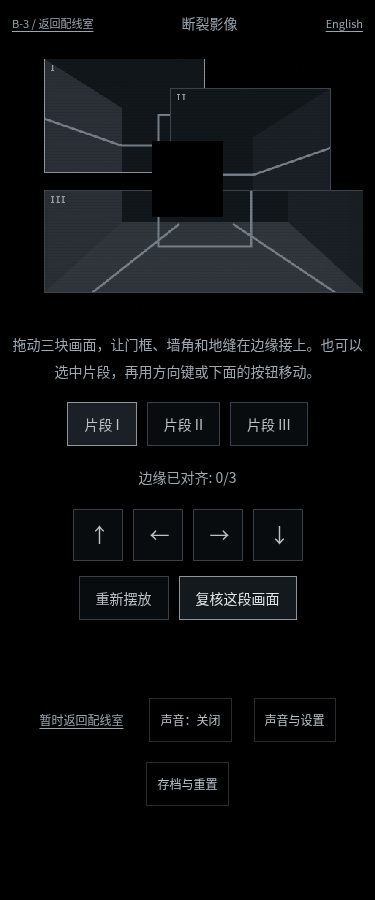
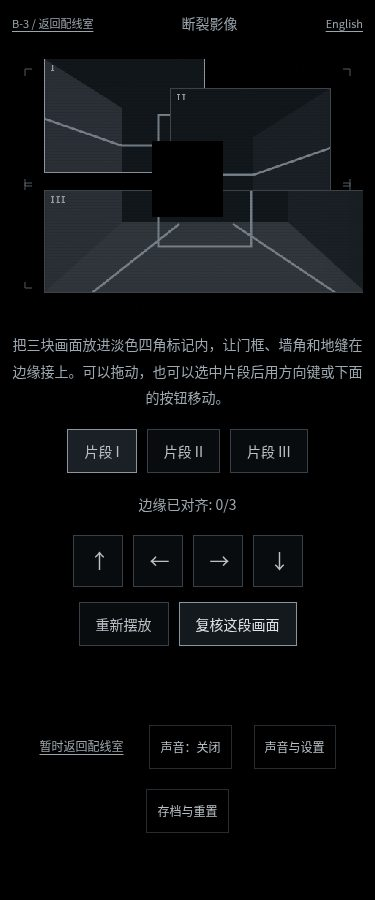
fix: show registration marks for the movable picture fragments

diff --git a/case-void.js b/case-void.js
@@ -33,7 +33,7 @@ globalThis.StillwaterVoid = {
       const title=corridor?t(...V.scenes[v.step].title):fragments?t('断裂影像','Fragmented picture'):terminal?t('分类终端','Classification terminal'):t('未归档画面','Unlisted picture');
       let controls='';
       if(corridor)controls=`<p class="void-instruction">${t('点画面左侧回看入口，点两扇门照亮门框。下面的按钮也能查看。','Touch the left edge to look back, or either door to illuminate its frame. The buttons below offer the same views.')}</p><div class="void-observe">${button('observe',t('回看入口门框','Look at the frame behind you'),'data-target="reference"')}${button('observe',t('照一下左侧门','Illuminate the left door'),'data-target="left"')}${button('observe',t('照一下右侧门','Illuminate the right door'),'data-target="right"')}${v.shadow?button('observe',t('查看走廊尽头','Look down the corridor'),'data-target="shadow"'):''}</div><p class="void-observation" role="status">${feedbackText(v)}</p><div class="void-directions">${button('walk',t('穿过左侧门','Go through the left door'),'data-direction="left"')}${button('walk',t('穿过右侧门','Go through the right door'),'data-direction="right"')}</div>`;
-      else if(fragments)controls=`<p class="void-instruction">${t('拖动三块画面，让门框、墙角和地缝在边缘接上。也可以选中片段，再用方向键或下面的按钮移动。','Drag the three fragments until the frame, corner and floor seams meet at their edges. You can also select a fragment and use the arrow keys or buttons.')}</p><div class="void-fragment-tabs" role="group" aria-label="${t('选择影像片段','Select a fragment')}">${roman.map((label,id)=>button('select',t('片段 ','Fragment ')+label,`data-id="${id}" aria-pressed="${id===v.selected}" ${v.reviewed?'disabled':''}`)).join('')}</div><p class="void-alignment" role="status">${t('边缘已对齐','Edges aligned')}: ${V.aligned(v).length}/3</p>${v.reviewed?`<p class="void-missing-source">${t('中央黑区没有对应机位。它不是丢失的第四块画面。','No camera covers the black area. It is not a missing fourth fragment.')}</p>${button('terminal',t('查看黑区后面的终端','Look at the terminal beyond the gap'),'class="void-primary"')}`:`<div class="void-nudges">${[['0','-1','↑'],['-1','0','←'],['1','0','→'],['0','1','↓']].map(([dx,dy,label])=>button('move',label,`data-dx="${dx}" data-dy="${dy}" aria-label="${t('移动片段','Move fragment')} ${label}"`)).join('')}</div><div class="void-fragment-actions">${button('reset-fragments',t('重新摆放','Reset fragments'))}${button('review',t('复核这段画面','Review this picture'),'class="void-primary"')}</div>`}`;
+      else if(fragments)controls=`<p class="void-instruction">${t('把三块画面放进淡色四角标记内，让门框、墙角和地缝在边缘接上。可以拖动，也可以选中片段后用方向键或下面的按钮移动。','Use the faint corner marks to position the three fragments so the frame, corner and floor seams meet at their edges. Drag, or select a fragment and use the arrow keys or buttons.')}</p><div class="void-fragment-tabs" role="group" aria-label="${t('选择影像片段','Select a fragment')}">${roman.map((label,id)=>button('select',t('片段 ','Fragment ')+label,`data-id="${id}" aria-pressed="${id===v.selected}" ${v.reviewed?'disabled':''}`)).join('')}</div><p class="void-alignment" role="status">${t('边缘已对齐','Edges aligned')}: ${V.aligned(v).length}/3</p>${v.reviewed?`<p class="void-missing-source">${t('中央黑区没有对应机位。它不是丢失的第四块画面。','No camera covers the black area. It is not a missing fourth fragment.')}</p>${button('terminal',t('查看黑区后面的终端','Look at the terminal beyond the gap'),'class="void-primary"')}`:`<div class="void-nudges">${[['0','-1','↑'],['-1','0','←'],['1','0','→'],['0','1','↓']].map(([dx,dy,label])=>button('move',label,`data-dx="${dx}" data-dy="${dy}" aria-label="${t('移动片段','Move fragment')} ${label}"`)).join('')}</div><div class="void-fragment-actions">${button('reset-fragments',t('重新摆放','Reset fragments'))}${button('review',t('复核这段画面','Review this picture'),'class="void-primary"')}</div>`}`;
       else if(terminal) {
         const current=['ROOM','GUEST','EMPLOYEE'].includes(v.observation)?v.observation:v.attempts.at(-1);
         controls=`<div class="void-classification"><p class="void-system-id">CONTINUITY / UNKNOWN SOURCE</p><h2>${t('无法识别此处。请选择记录类别。','Location unrecognized. Select a record type.')}</h2><div class="void-types">${['ROOM','GUEST','EMPLOYEE'].map(type=>button('classify',type,`data-type="${type}" aria-pressed="${v.attempts.includes(type)}"`)).join('')}</div>${current?`<div class="void-conflict" role="status"><span>${current} / ${t('与原件不符','SOURCE CONFLICT')}</span><p>${esc(conflict(current))}</p></div>`:''}${v.attempts.length===3?button('classify','UNVERIFIED', 'data-type="UNVERIFIED" class="void-primary"'):''}</div>`;
@@ -81,6 +81,12 @@ globalThis.StillwaterVoid = {
       ctx.beginPath();ctx.moveTo(20,110);ctx.lineTo(126,147);ctx.lineTo(354,147);ctx.lineTo(460,110);ctx.moveTo(86,324);ctx.lineTo(205,230);ctx.moveTo(418,324);ctx.lineTo(278,230);ctx.stroke();
     }
     function fragments(ctx,v,positions=v.positions,selected=v.selected) {
+      // Fixed registration marks make the absolute picture position observable,
+      // even when all three moving fragments happen to share the same offset.
+      ctx.strokeStyle='#59636b';ctx.lineWidth=1;
+      for(const r of V.slots)for(const [cx,cy,sx,sy] of [[r.x-2,r.y-2,1,1],[r.x+r.w+2,r.y-2,-1,1],[r.x-2,r.y+r.h+2,1,-1],[r.x+r.w+2,r.y+r.h+2,-1,-1]]) {
+        ctx.beginPath();ctx.moveTo(cx+sx*9,cy);ctx.lineTo(cx,cy);ctx.lineTo(cx,cy+sy*9);ctx.stroke();
+      }
       for(let i=0;i<3;i++) {
         const r=V.slots[i],x=r.x+positions[i][0]*8,y=r.y+positions[i][1]*8;
         ctx.save();ctx.beginPath();ctx.rect(x,y,r.w,r.h);ctx.clip();ctx.translate(positions[i][0]*8,positions[i][1]*8);fragmentSource(ctx);ctx.restore();

diff --git a/index.html b/index.html
@@ -10,47 +10,47 @@
     />
     <title>Night Owl BBS · Work notices</title>
     <link rel="icon" href="assets/emblem.svg" type="image/svg+xml" />
-    <link rel="stylesheet" href="case-style.css?v=4.6.0" />
-    <link rel="stylesheet" href="design-tokens.css?v=4.6.0" />
-    <link rel="stylesheet" href="hotel-2010.css?v=4.6.0" />
-    <script src="site-media.js?v=4.6.0" defer></script>
-    <script src="case-data.js?v=4.6.0" defer></script>
-    <script src="case-void-model.js?v=4.6.0" defer></script>
-    <script src="case-night-model.js?v=4.6.0" defer></script>
-    <script src="case-state.js?v=4.6.0" defer></script>
-    <script src="case-pages.js?v=4.6.0" defer></script>
-    <script src="case-comfort.js?v=4.6.0" defer></script>
-    <script src="case-feedback.js?v=4.6.0" defer></script>
-    <link rel="stylesheet" href="forum-style.css?v=4.6.0" />
-    <script src="forum-data.js?v=4.6.0" defer></script>
-    <script src="forum.js?v=4.6.0" defer></script>
-    <script src="chat-data.js?v=4.6.0" defer></script>
-    <script src="chat-model.js?v=4.6.0" defer></script>
-    <script src="chat-photos.js?v=4.6.0" defer></script>
-    <script src="chat-view.js?v=4.6.0" defer></script>
-    <link rel="stylesheet" href="ad-style.css?v=4.6.0" />
-    <script src="ad-data.js?v=4.6.0" defer></script>
-    <script src="ad-system.js?v=4.6.0" defer></script>
-    <link rel="stylesheet" href="case-anomaly.css?v=4.6.0" />
-    <script src="case-night.js?v=4.6.0" defer></script>
-    <script src="case-audio.js?v=4.6.0" defer></script>
-    <script src="case-transition.js?v=4.6.0" defer></script>
-    <script src="case-space.js?v=4.6.0" defer></script>
-    <script src="case-events.js?v=4.6.0" defer></script>
-    <script src="case-welcome.js?v=4.6.0" defer></script>
-    <link rel="stylesheet" href="case-welcome.css?v=4.6.0" />
-    <script src="case-ending.js?v=4.6.0" defer></script>
-    <script src="case-void.js?v=4.6.0" defer></script>
-    <script src="case-app.js?v=4.6.0" defer></script>
-    <link rel="stylesheet" href="cctv-filter.css?v=4.6.0" />
-    <link rel="stylesheet" href="visual-v24.css?v=4.6.0" />
-    <link rel="stylesheet" href="case-wiring.css?v=4.6.0" />
-    <link rel="stylesheet" href="case-ending.css?v=4.6.0" />
-    <link rel="stylesheet" href="ad-popup.css?v=4.6.0" />
-    <link rel="stylesheet" href="chat-style.css?v=4.6.0" />
-    <link rel="stylesheet" href="case-void.css?v=4.6.0" />
-    <script src="retro-media.js?v=4.6.0" defer></script>
-    <script src="cctv-scenes.js?v=4.6.0" defer></script>
+    <link rel="stylesheet" href="case-style.css?v=4.6.1" />
+    <link rel="stylesheet" href="design-tokens.css?v=4.6.1" />
+    <link rel="stylesheet" href="hotel-2010.css?v=4.6.1" />
+    <script src="site-media.js?v=4.6.1" defer></script>
+    <script src="case-data.js?v=4.6.1" defer></script>
+    <script src="case-void-model.js?v=4.6.1" defer></script>
+    <script src="case-night-model.js?v=4.6.1" defer></script>
+    <script src="case-state.js?v=4.6.1" defer></script>
+    <script src="case-pages.js?v=4.6.1" defer></script>
+    <script src="case-comfort.js?v=4.6.1" defer></script>
+    <script src="case-feedback.js?v=4.6.1" defer></script>
+    <link rel="stylesheet" href="forum-style.css?v=4.6.1" />
+    <script src="forum-data.js?v=4.6.1" defer></script>
+    <script src="forum.js?v=4.6.1" defer></script>
+    <script src="chat-data.js?v=4.6.1" defer></script>
+    <script src="chat-model.js?v=4.6.1" defer></script>
+    <script src="chat-photos.js?v=4.6.1" defer></script>
+    <script src="chat-view.js?v=4.6.1" defer></script>
+    <link rel="stylesheet" href="ad-style.css?v=4.6.1" />
+    <script src="ad-data.js?v=4.6.1" defer></script>
+    <script src="ad-system.js?v=4.6.1" defer></script>
+    <link rel="stylesheet" href="case-anomaly.css?v=4.6.1" />
+    <script src="case-night.js?v=4.6.1" defer></script>
+    <script src="case-audio.js?v=4.6.1" defer></script>
+    <script src="case-transition.js?v=4.6.1" defer></script>
+    <script src="case-space.js?v=4.6.1" defer></script>
+    <script src="case-events.js?v=4.6.1" defer></script>
+    <script src="case-welcome.js?v=4.6.1" defer></script>
+    <link rel="stylesheet" href="case-welcome.css?v=4.6.1" />
+    <script src="case-ending.js?v=4.6.1" defer></script>
+    <script src="case-void.js?v=4.6.1" defer></script>
+    <script src="case-app.js?v=4.6.1" defer></script>
+    <link rel="stylesheet" href="cctv-filter.css?v=4.6.1" />
+    <link rel="stylesheet" href="visual-v24.css?v=4.6.1" />
+    <link rel="stylesheet" href="case-wiring.css?v=4.6.1" />
+    <link rel="stylesheet" href="case-ending.css?v=4.6.1" />
+    <link rel="stylesheet" href="ad-popup.css?v=4.6.1" />
+    <link rel="stylesheet" href="chat-style.css?v=4.6.1" />
+    <link rel="stylesheet" href="case-void.css?v=4.6.1" />
+    <script src="retro-media.js?v=4.6.1" defer></script>
+    <script src="cctv-scenes.js?v=4.6.1" defer></script>
   </head>
   <body>
     <a class="skip" href="#content">Skip to content</a>

diff --git a/index-zh.html b/index-zh.html
@@ -10,47 +10,47 @@
     />
     <title>夜猫论坛 · 工作信息</title>
     <link rel="icon" href="assets/emblem.svg" type="image/svg+xml" />
-    <link rel="stylesheet" href="case-style.css?v=4.6.0" />
-    <link rel="stylesheet" href="design-tokens.css?v=4.6.0" />
-    <link rel="stylesheet" href="hotel-2010.css?v=4.6.0" />
-    <script src="site-media.js?v=4.6.0" defer></script>
-    <script src="case-data.js?v=4.6.0" defer></script>
-    <script src="case-void-model.js?v=4.6.0" defer></script>
-    <script src="case-night-model.js?v=4.6.0" defer></script>
-    <script src="case-state.js?v=4.6.0" defer></script>
-    <script src="case-pages.js?v=4.6.0" defer></script>
-    <script src="case-comfort.js?v=4.6.0" defer></script>
-    <script src="case-feedback.js?v=4.6.0" defer></script>
-    <link rel="stylesheet" href="forum-style.css?v=4.6.0" />
-    <script src="forum-data.js?v=4.6.0" defer></script>
-    <script src="forum.js?v=4.6.0" defer></script>
-    <script src="chat-data.js?v=4.6.0" defer></script>
-    <script src="chat-model.js?v=4.6.0" defer></script>
-    <script src="chat-photos.js?v=4.6.0" defer></script>
-    <script src="chat-view.js?v=4.6.0" defer></script>
-    <link rel="stylesheet" href="ad-style.css?v=4.6.0" />
-    <script src="ad-data.js?v=4.6.0" defer></script>
-    <script src="ad-system.js?v=4.6.0" defer></script>
-    <link rel="stylesheet" href="case-anomaly.css?v=4.6.0" />
-    <script src="case-night.js?v=4.6.0" defer></script>
-    <script src="case-audio.js?v=4.6.0" defer></script>
-    <script src="case-transition.js?v=4.6.0" defer></script>
-    <script src="case-space.js?v=4.6.0" defer></script>
-    <script src="case-events.js?v=4.6.0" defer></script>
-    <script src="case-welcome.js?v=4.6.0" defer></script>
-    <link rel="stylesheet" href="case-welcome.css?v=4.6.0" />
-    <script src="case-ending.js?v=4.6.0" defer></script>
-    <script src="case-void.js?v=4.6.0" defer></script>
-    <script src="case-app.js?v=4.6.0" defer></script>
-    <link rel="stylesheet" href="cctv-filter.css?v=4.6.0" />
-    <link rel="stylesheet" href="visual-v24.css?v=4.6.0" />
-    <link rel="stylesheet" href="case-wiring.css?v=4.6.0" />
-    <link rel="stylesheet" href="case-ending.css?v=4.6.0" />
-    <link rel="stylesheet" href="ad-popup.css?v=4.6.0" />
-    <link rel="stylesheet" href="chat-style.css?v=4.6.0" />
-    <link rel="stylesheet" href="case-void.css?v=4.6.0" />
-    <script src="retro-media.js?v=4.6.0" defer></script>
-    <script src="cctv-scenes.js?v=4.6.0" defer></script>
+    <link rel="stylesheet" href="case-style.css?v=4.6.1" />
+    <link rel="stylesheet" href="design-tokens.css?v=4.6.1" />
+    <link rel="stylesheet" href="hotel-2010.css?v=4.6.1" />
+    <script src="site-media.js?v=4.6.1" defer></script>
+    <script src="case-data.js?v=4.6.1" defer></script>
+    <script src="case-void-model.js?v=4.6.1" defer></script>
+    <script src="case-night-model.js?v=4.6.1" defer></script>
+    <script src="case-state.js?v=4.6.1" defer></script>
+    <script src="case-pages.js?v=4.6.1" defer></script>
+    <script src="case-comfort.js?v=4.6.1" defer></script>
+    <script src="case-feedback.js?v=4.6.1" defer></script>
+    <link rel="stylesheet" href="forum-style.css?v=4.6.1" />
+    <script src="forum-data.js?v=4.6.1" defer></script>
+    <script src="forum.js?v=4.6.1" defer></script>
+    <script src="chat-data.js?v=4.6.1" defer></script>
+    <script src="chat-model.js?v=4.6.1" defer></script>
+    <script src="chat-photos.js?v=4.6.1" defer></script>
+    <script src="chat-view.js?v=4.6.1" defer></script>
+    <link rel="stylesheet" href="ad-style.css?v=4.6.1" />
+    <script src="ad-data.js?v=4.6.1" defer></script>
+    <script src="ad-system.js?v=4.6.1" defer></script>
+    <link rel="stylesheet" href="case-anomaly.css?v=4.6.1" />
+    <script src="case-night.js?v=4.6.1" defer></script>
+    <script src="case-audio.js?v=4.6.1" defer></script>
+    <script src="case-transition.js?v=4.6.1" defer></script>
+    <script src="case-space.js?v=4.6.1" defer></script>
+    <script src="case-events.js?v=4.6.1" defer></script>
+    <script src="case-welcome.js?v=4.6.1" defer></script>
+    <link rel="stylesheet" href="case-welcome.css?v=4.6.1" />
+    <script src="case-ending.js?v=4.6.1" defer></script>
+    <script src="case-void.js?v=4.6.1" defer></script>
+    <script src="case-app.js?v=4.6.1" defer></script>
+    <link rel="stylesheet" href="cctv-filter.css?v=4.6.1" />
+    <link rel="stylesheet" href="visual-v24.css?v=4.6.1" />
+    <link rel="stylesheet" href="case-wiring.css?v=4.6.1" />
+    <link rel="stylesheet" href="case-ending.css?v=4.6.1" />
+    <link rel="stylesheet" href="ad-popup.css?v=4.6.1" />
+    <link rel="stylesheet" href="chat-style.css?v=4.6.1" />
+    <link rel="stylesheet" href="case-void.css?v=4.6.1" />
+    <script src="retro-media.js?v=4.6.1" defer></script>
+    <script src="cctv-scenes.js?v=4.6.1" defer></script>
   </head>
   <body>
     <a class="skip" href="#content">跳至正文</a>

diff --git a/docs/V2_6-DELIVERY.zh-CN.md b/docs/V2_6-DELIVERY.zh-CN.md
@@ -1,6 +1,6 @@
 # Stillwater Hotel V2.6 · 聊天、广告与未归档画面
 
-基线：`35a178f0a295797da427e97d26a1d3b49ec1732c`；当前发行版本 `4.6.0`。在现有新版上继续开发，不覆盖论坛、广告、原调查或存档。第三阶段以用户提供的 DOCX/PDF 设计文档为实现参考；聊天与广告的最新直接要求优先于旧文档的五分钟节奏。
+基线：`35a178f0a295797da427e97d26a1d3b49ec1732c`；当前发行版本 `4.6.1`。在现有新版上继续开发，不覆盖论坛、广告、原调查或存档。第三阶段以用户提供的 DOCX/PDF 设计文档为实现参考；聊天与广告的最新直接要求优先于旧文档的五分钟节奏。
 
 ## 已完成的范围
 
@@ -24,7 +24,7 @@
 6. **B-3 配线。** 六个接头仍按真实端口连通，须有效接线、隔离 AUTO-WRITE、切 MANUAL、保存配置，并恢复 03:17 最后一帧。该画面下方才出现无机位编号的黑色片段。
 7. **主动打开未归档画面。** 旧 HUD 短暂保留，然后在 2.4 秒内剥离；主线日期是 `2006-10-17 / 03:17`，不沿用概念图中 2001 年。
 8. **走廊辨路。** 入口、拐角、门外、尽头四个局部空间；比较光线方向、地缝断点与门框缺口。门的规则固定，走错只回这一段入口；第二次返回有淡淡人形，调查后消失。鼠标/触摸可以直接照亮各门，按钮提供等价操作，不靠不可见的小热点。
-9. **拼合影像。** 三块片段真实移动，支持拖动、触摸、方向键及按钮微调；对齐检测要求边缘位置实际正确，附 0/3–3/3 提示和局部重试。中央黑区无法补满；主动复核后得到「没有对应机位」，并首次触发损坏面孔。
+9. **拼合影像。** 三块片段真实移动，支持拖动、触摸、方向键及按钮微调；固定淡色四角标记提供整体位置参照，对齐检测要求边缘位置实际正确，附 0/3–3/3 提示和局部重试。中央黑区无法补满；主动复核后得到「没有对应机位」，并首次触发损坏面孔。
 10. **单一分类终端。** ROOM、GUEST、EMPLOYEE 逐项暴露与 317 用途、原住客/处理人、TEMP-015 自动排班之间的冲突。三项都试过后才可保留 UNVERIFIED。第三次尝试后终端背后有很淡的人形，不给未知存在起名或编起源。
 11. **主动回望 → 返回 B-3。** 可选择再看末帧，首次出现另一张凝视面孔。返回后自动滚动并聚焦「锁定原始备份」，继续原夜班终端的最终决定。
 12. **原有三个结局。** 自动结案与拒绝签字保留原来的较早选择；新游戏的真结局需完成未归档章节、回到 B-3 锁定原件后退出。最后一次逃离鬼脸和 GAME OVER 保留，明确故事已结束。
@@ -68,6 +68,7 @@
 - `npm test`：**50/50 通过**，包括七项新增纯黑空间规则、旧存档补齐、门禁、分类及结局兼容检查。
 - 整站 Playwright 首轮 **124 项中 122 项通过**；中英文两项发现从第三阶段回来聚焦了「保存」而不是「锁定」的问题。已修复 DOM 顺序导致的焦点选择，并补充进入黑色章节的回顶与历史已锁定存档的退出定位。
 - 修复后复测聊天、全部结局、第三阶段与从全新玩家开始的整条主线，**33/33 通过**。其中增加一项实际 Web Audio 检查：入口静音、主动开启、深入后出现呼吸、关闭即停和刷新不自启。首轮两项失败均已复测通过；结合原整站与新增项，本轮覆盖 **125 个不同浏览器用例**，没有遗留失败项。
+- 拼图补充可见定位角标后，再次通过 **50/50 单元测试**、第三阶段及整条主线 **11/11 浏览器复测**；解法和已有存档坐标继续沿用。
 - [96 张浏览器截图与检查数据](v2.6/visual-results.json)：中/英 × 375/1440px，从开场到 GAME OVER；包含五个新章节状态。无横向溢出、无 4xx 资源/页面脚本错误、无旧版入口，全部可见监控日期与 `2006-10-17` 一致。另实际目视核对聊天排版、手机拼图和分类终端。
 - 原始事实、论坛帖子、广告数据、原有四张惊吓图、经典运行时与共享旧版显示文件无改动；四张新头像和两幅文档 PNG 的 SHA-256 与来源清单逐一匹配。历史截图因测试临时生成的改动在提交前撤回，不覆盖旧报告。
 

diff --git a/VISUAL-AUDIT.md b/VISUAL-AUDIT.md
@@ -1,4 +1,4 @@
-> 当前版本 V2.6（4.6.0）：群聊加速、自动论坛分享与授权网图头像；广告间隔缩短；新增可操作的纯黑第三阶段。最新记录见 [V2.6 交付与验收](docs/V2_6-DELIVERY.zh-CN.md)、[96 张中英电脑/手机截图](docs/v2.6/visual-results.json)。下方保留历史检查。
+> 当前版本 V2.6（4.6.1）：群聊加速、自动论坛分享与授权网图头像；广告间隔缩短；新增可操作的纯黑第三阶段。最新记录见 [V2.6 交付与验收](docs/V2_6-DELIVERY.zh-CN.md)、[96 张中英电脑/手机截图](docs/v2.6/visual-results.json)。下方保留历史检查。
 
 
 # V2.4 新版视觉审查与验收

diff --git a/WALKTHROUGH.zh-CN.md b/WALKTHROUGH.zh-CN.md
@@ -115,7 +115,7 @@ D  E  F
 
 ### 断裂影像
 
-把三块残片的门框、墙角和地缝接上，中央的黑色区域不用填满。支持鼠标拖动、手机触摸、方向键与按钮微调。默认位置的精确调整是：
+先把三块残片放到淡色四角标记内，使门框、墙角和地缝接上；中央的黑色区域不用填满。支持鼠标拖动、手机触摸、方向键与按钮微调。默认位置的精确调整是：
 
 | 片段 | 从初始位置移动 |
 |---|---|
